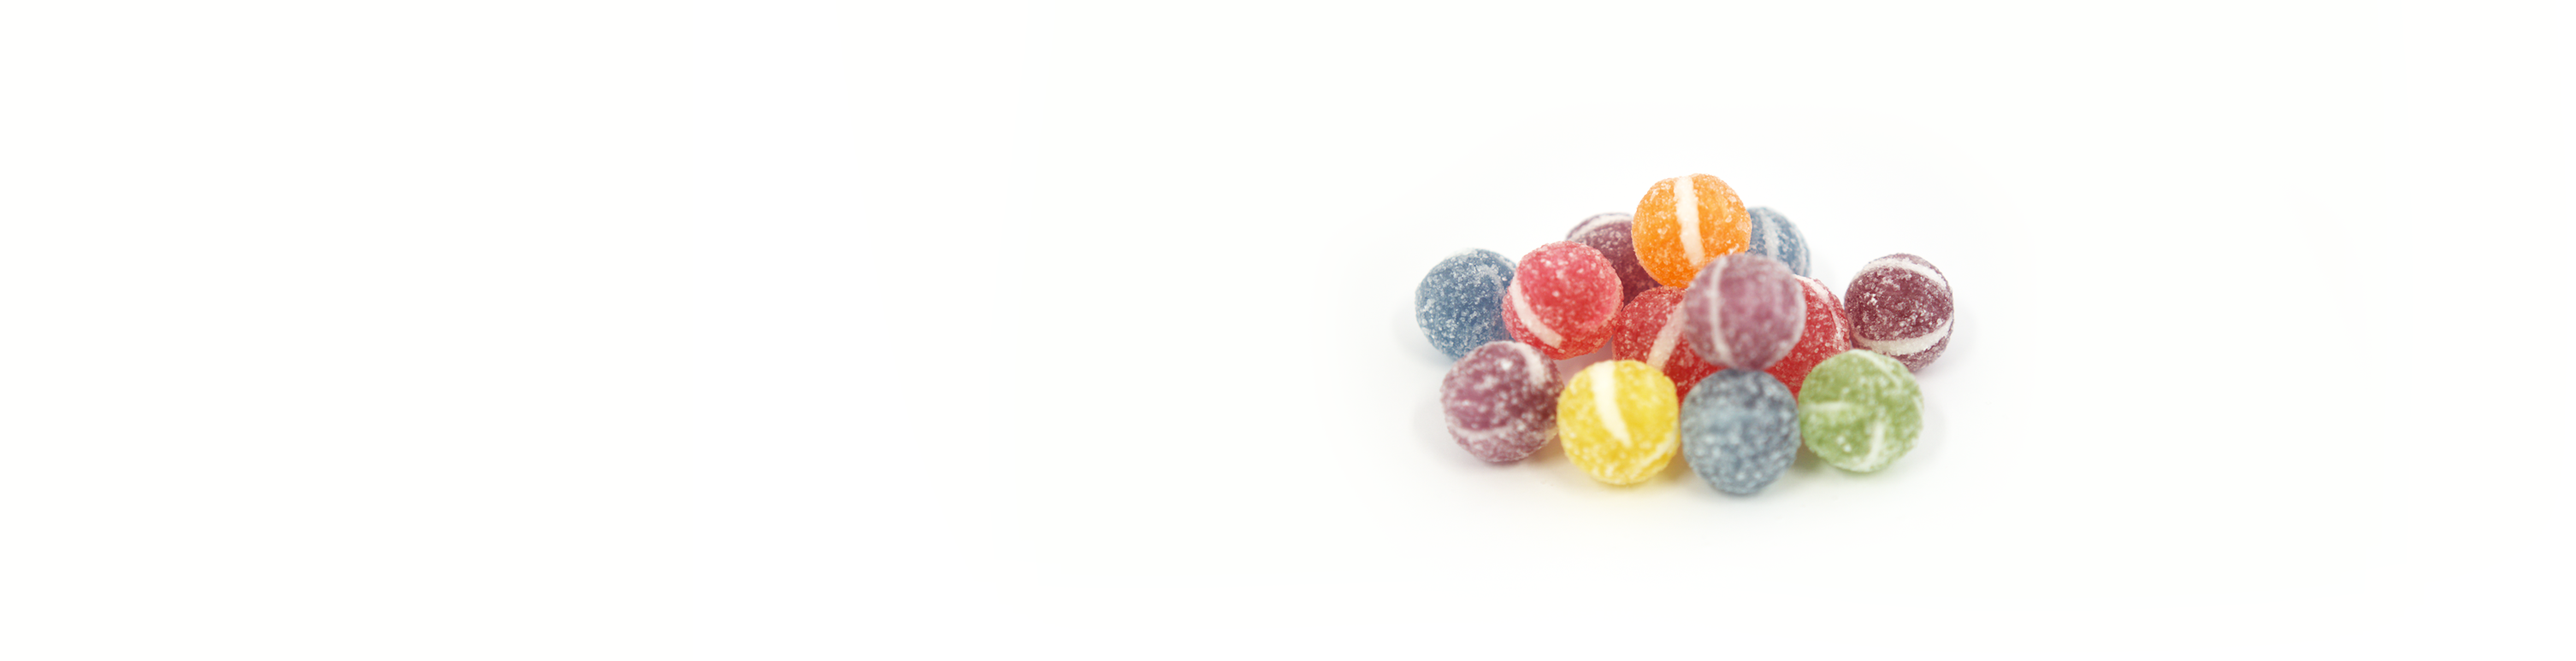
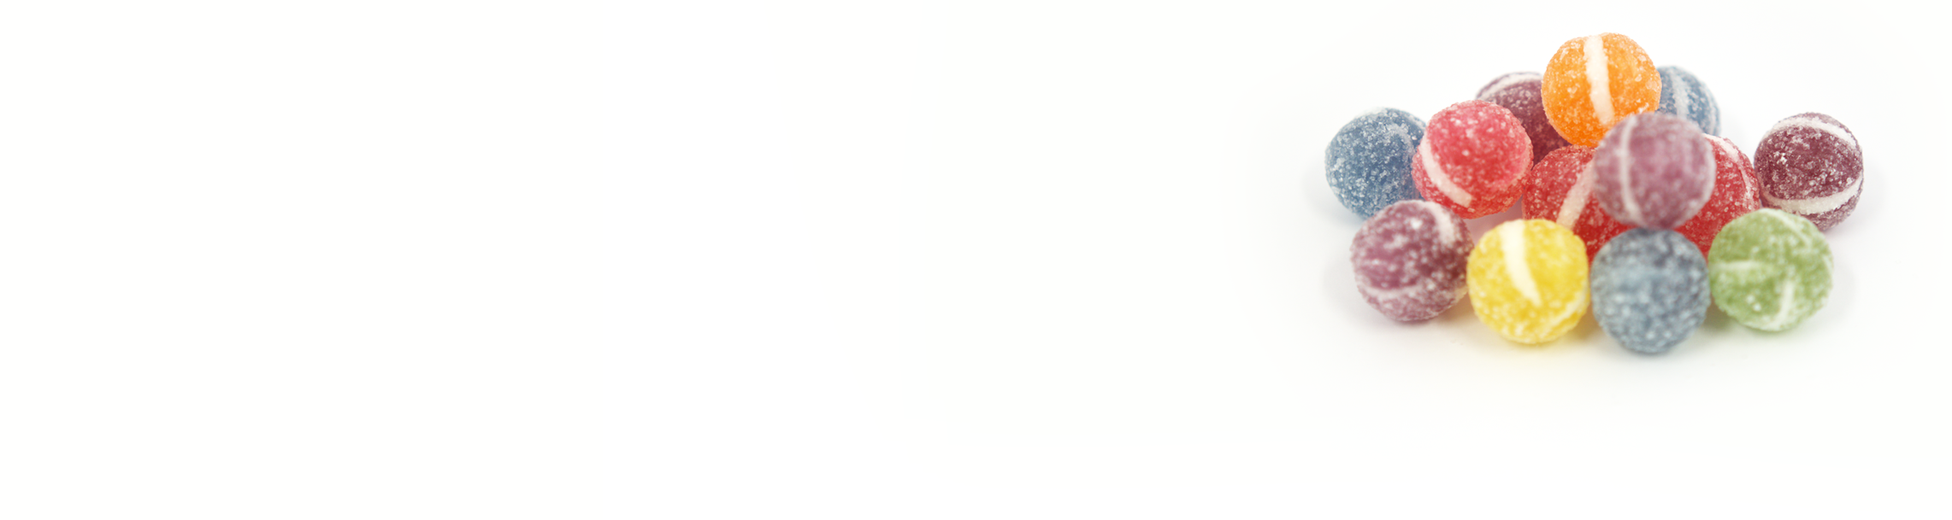
Add files via upload

Changed region(s): [[0.5287, 0.0624, 0.9641, 0.78]]

diff --git a/css/style.css b/css/style.css
@@ -16,7 +16,7 @@ p,h3,h4,h5,h6 {
 
 h1,h2{
   margin-top: 30px;
-  padding: 80px 0 0 0;
+  padding: 40px 0 0 0;
   font-family: 'Kiwi Maru', serif;
 }
 
@@ -104,7 +104,6 @@ footer {
   text-align: center;
   color: #000000;
   padding: 20px 0;
-  margin-top: 60px;
   background-color: #bdbdbd;
 }
 
@@ -139,7 +138,7 @@ footer small {
   display: block;
   text-align: center;
   line-height: 50px;
-  margin-top: 20px;
+  margin-top: 80px;
   border-radius: 5px;
   border: 3px solid #ffa500;
 }
@@ -238,7 +237,8 @@ footer small {
 
 #wrap{
   clear: both;
-  background-color: #ffffff;
+  background-image: url(../images/wasi.jpg);
+    background-size: cover;
   margin-top: 220px;
   padding: 35px 0;
 }

diff --git a/index.html b/index.html
@@ -22,7 +22,13 @@
     <!-- javascript始まり -->
     <canvas class="background"></canvas>
     <script src="https://cdn.jsdelivr.net/npm/bubbly-bg@1.0.0/dist/bubbly-bg.js"></script>
-    <script>bubbly();</script>
+    <script>bubbly({
+      colorStart: '#fff4e6',
+      colorStop: '#ffe9e4',
+      blur:1,
+      compose: 'source-over',
+      bubbleFunc:() => `hsla(${Math.random() * 50}, 100%, 50%, .3)`
+    });</script>
 
     <!-- javascript終わり -->
 

diff --git a/anesthesia.html b/anesthesia.html
@@ -83,7 +83,7 @@
             <p class="btn"><a href="buy.html">購入</a></p>
           </section>
         </div>
-        <p class="btn3"><a href="product.html">＜戻る＞</a></p>
+        <p class="btn3"><a href="special.html">＜戻る＞</a></p>
       </div>
     </div>
     <!-- wrap終わり-->

diff --git a/angry.html b/angry.html
@@ -79,7 +79,7 @@
             <p class="btn"><a href="buy.html">購入</a></p>
           </section>
         </div>
-        <p class="btn3"><a href="product.html">＜戻る＞</a></p>
+        <p class="btn3"><a href="classic.html">＜戻る＞</a></p>
       </div>
     </div>
     <!-- wrap終わり-->

diff --git a/animal.html b/animal.html
@@ -82,7 +82,7 @@
             <p class="btn"><a href="buy.html">購入</a></p>
           </section>
         </div>
-        <p class="btn3"><a href="product.html">＜戻る＞</a></p>
+        <p class="btn3"><a href="special.html">＜戻る＞</a></p>
       </div>
     </div>
     <!-- wrap終わり-->

diff --git a/beauty.html b/beauty.html
@@ -85,7 +85,7 @@
             <p class="btn"><a href="buy.html">購入</a></p>
           </section>
         </div>
-        <p class="btn3"><a href="product.html">＜戻る＞</a></p>
+        <p class="btn3"><a href="special.html">＜戻る＞</a></p>
       </div>
     </div>
     <!-- wrap終わり-->

diff --git a/clear.html b/clear.html
@@ -84,7 +84,7 @@
             <p class="btn"><a href="buy.html">購入</a></p>
           </section>
         </div>
-        <p class="btn3"><a href="product.html">＜戻る＞</a></p>
+        <p class="btn3"><a href="special.html">＜戻る＞</a></p>
       </div>
     </div>
     <!-- wrap終わり-->

diff --git a/cry.html b/cry.html
@@ -82,7 +82,7 @@
             <p class="btn"><a href="buy.html">購入</a></p>
           </section>
         </div>
-        <p class="btn3"><a href="product.html">＜戻る＞</a></p>
+        <p class="btn3"><a href="classic.html">＜戻る＞</a></p>
       </div>
     </div>
     <!-- wrap終わり-->

diff --git a/esthetic.html b/esthetic.html
@@ -83,7 +83,7 @@
             <p class="btn"><a href="buy.html">購入</a></p>
           </section>
         </div>
-        <p class="btn3"><a href="product.html">＜戻る＞</a></p>
+        <p class="btn3"><a href="special.html">＜戻る＞</a></p>
       </div>
     </div>
     <!-- wrap終わり-->

diff --git a/fine.html b/fine.html
@@ -84,7 +84,7 @@
             <p class="btn"><a href="buy.html">購入</a></p>
           </section>
         </div>
-        <p class="btn3"><a href="product.html">＜戻る＞</a></p>
+        <p class="btn3"><a href="classic.html">＜戻る＞</a></p>
       </div>
     </div>
     <!-- wrap終わり-->

diff --git a/fly.html b/fly.html
@@ -84,7 +84,7 @@
             <p class="btn"><a href="buy.html">購入</a></p>
           </section>
         </div>
-        <p class="btn3"><a href="product.html">＜戻る＞</a></p>
+        <p class="btn3"><a href="special.html">＜戻る＞</a></p>
       </div>
     </div>
     <!-- wrap終わり-->

diff --git a/full.html b/full.html
@@ -85,7 +85,7 @@
             <p class="btn"><a href="buy.html">購入</a></p>
           </section>
         </div>
-        <p class="btn3"><a href="product.html">＜戻る＞</a></p>
+        <p class="btn3"><a href="special.html">＜戻る＞</a></p>
       </div>
     </div>
     <!-- wrap終わり-->
